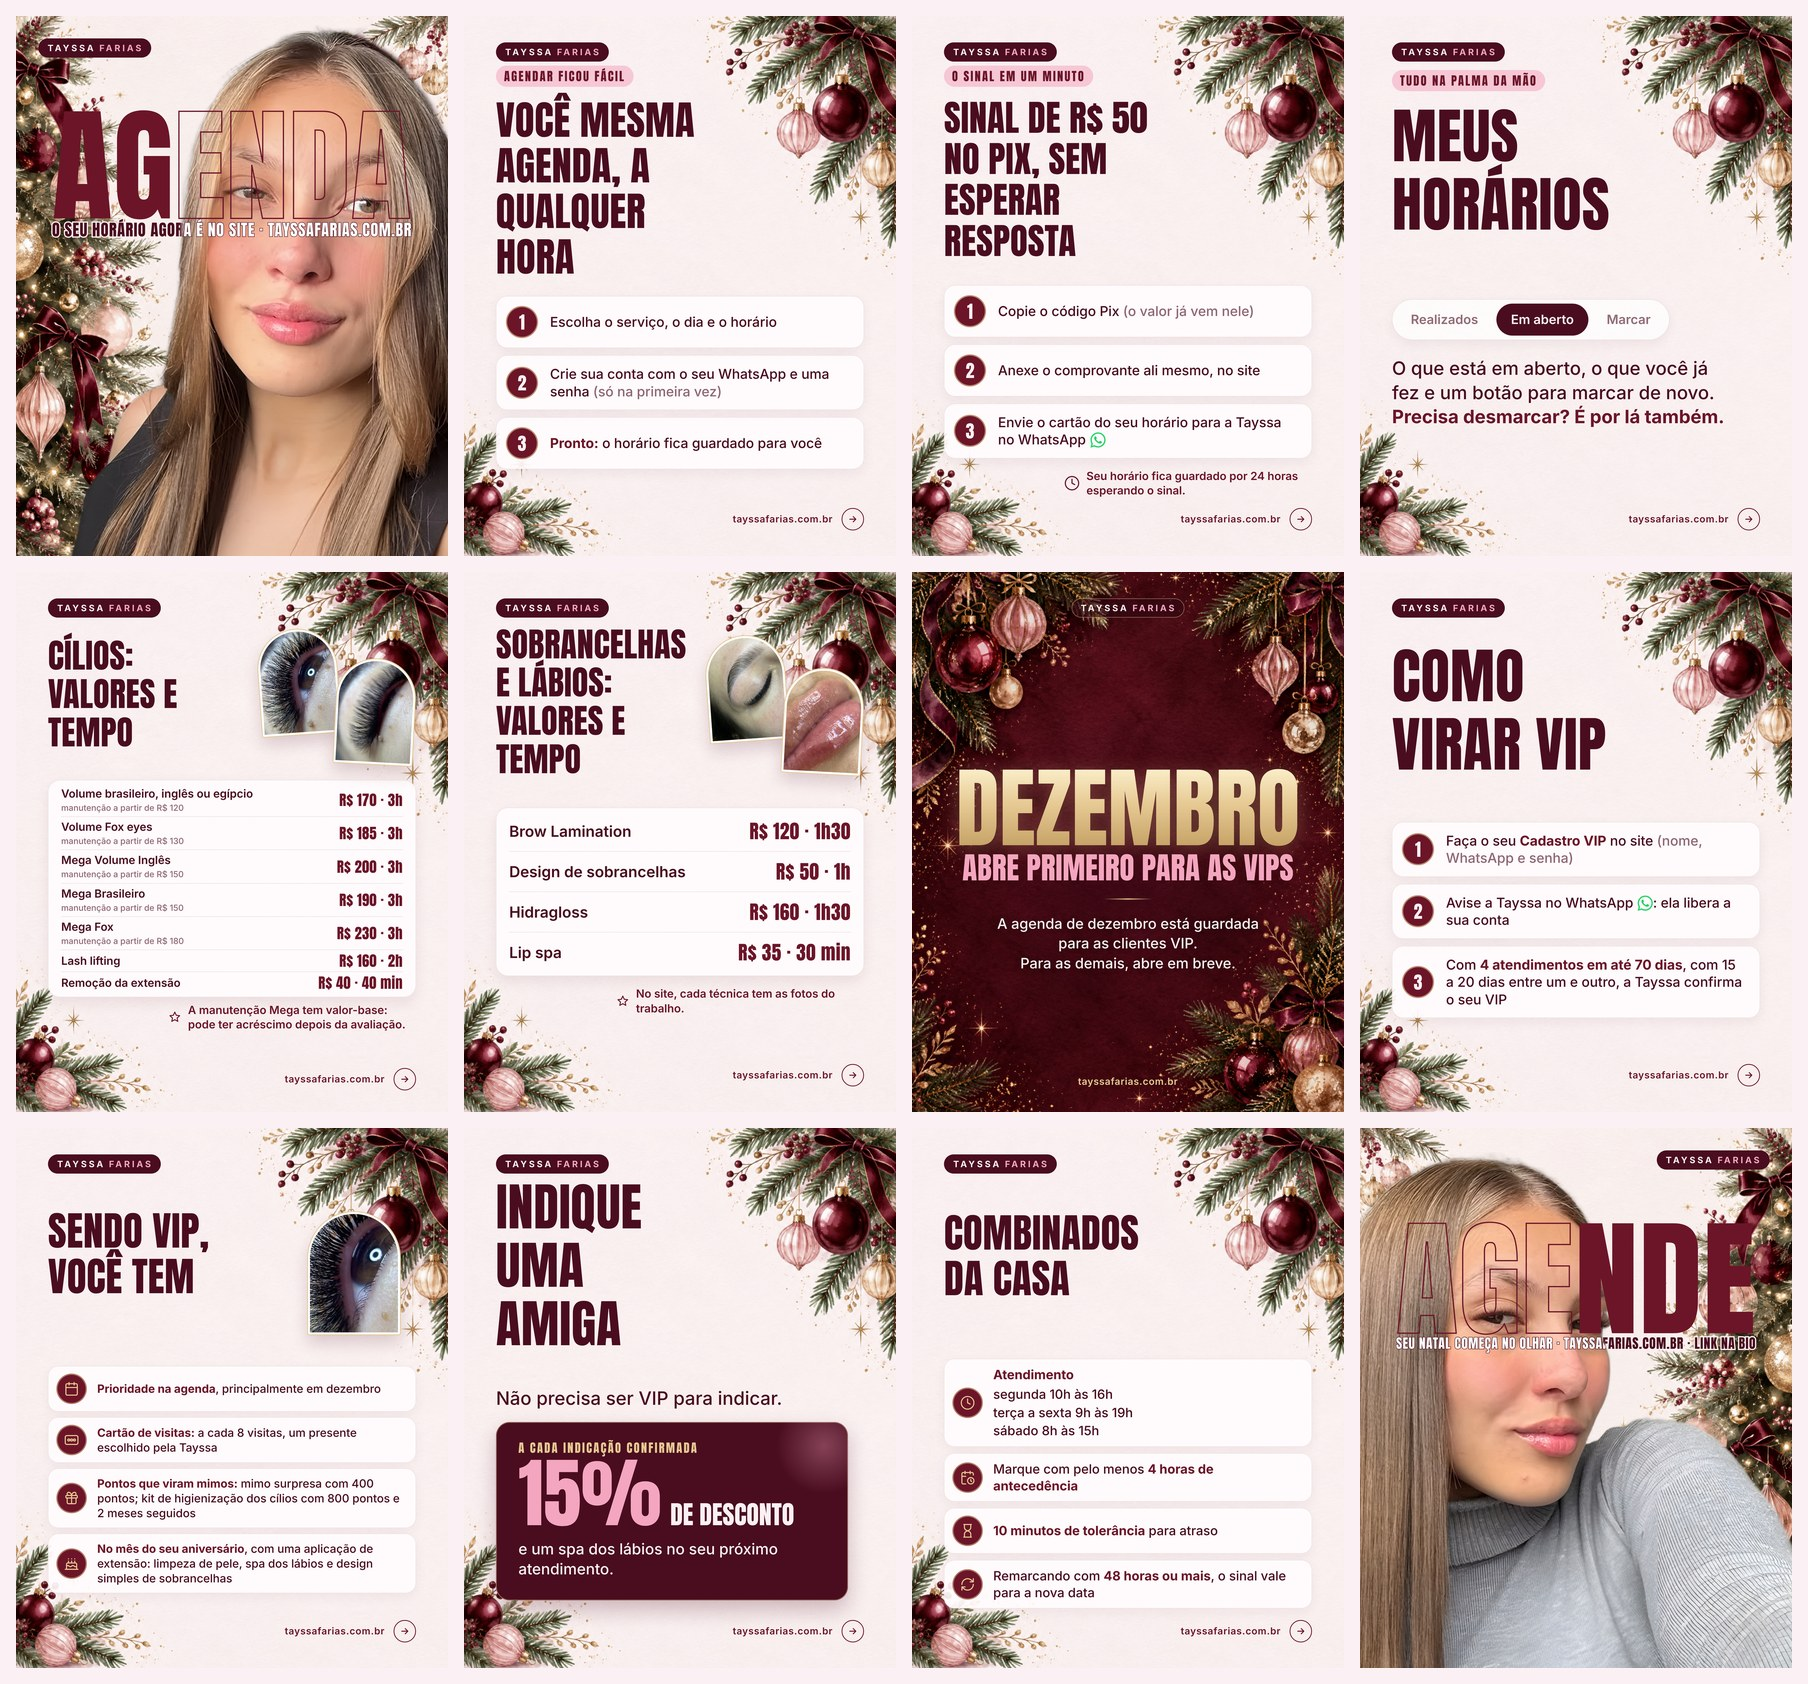
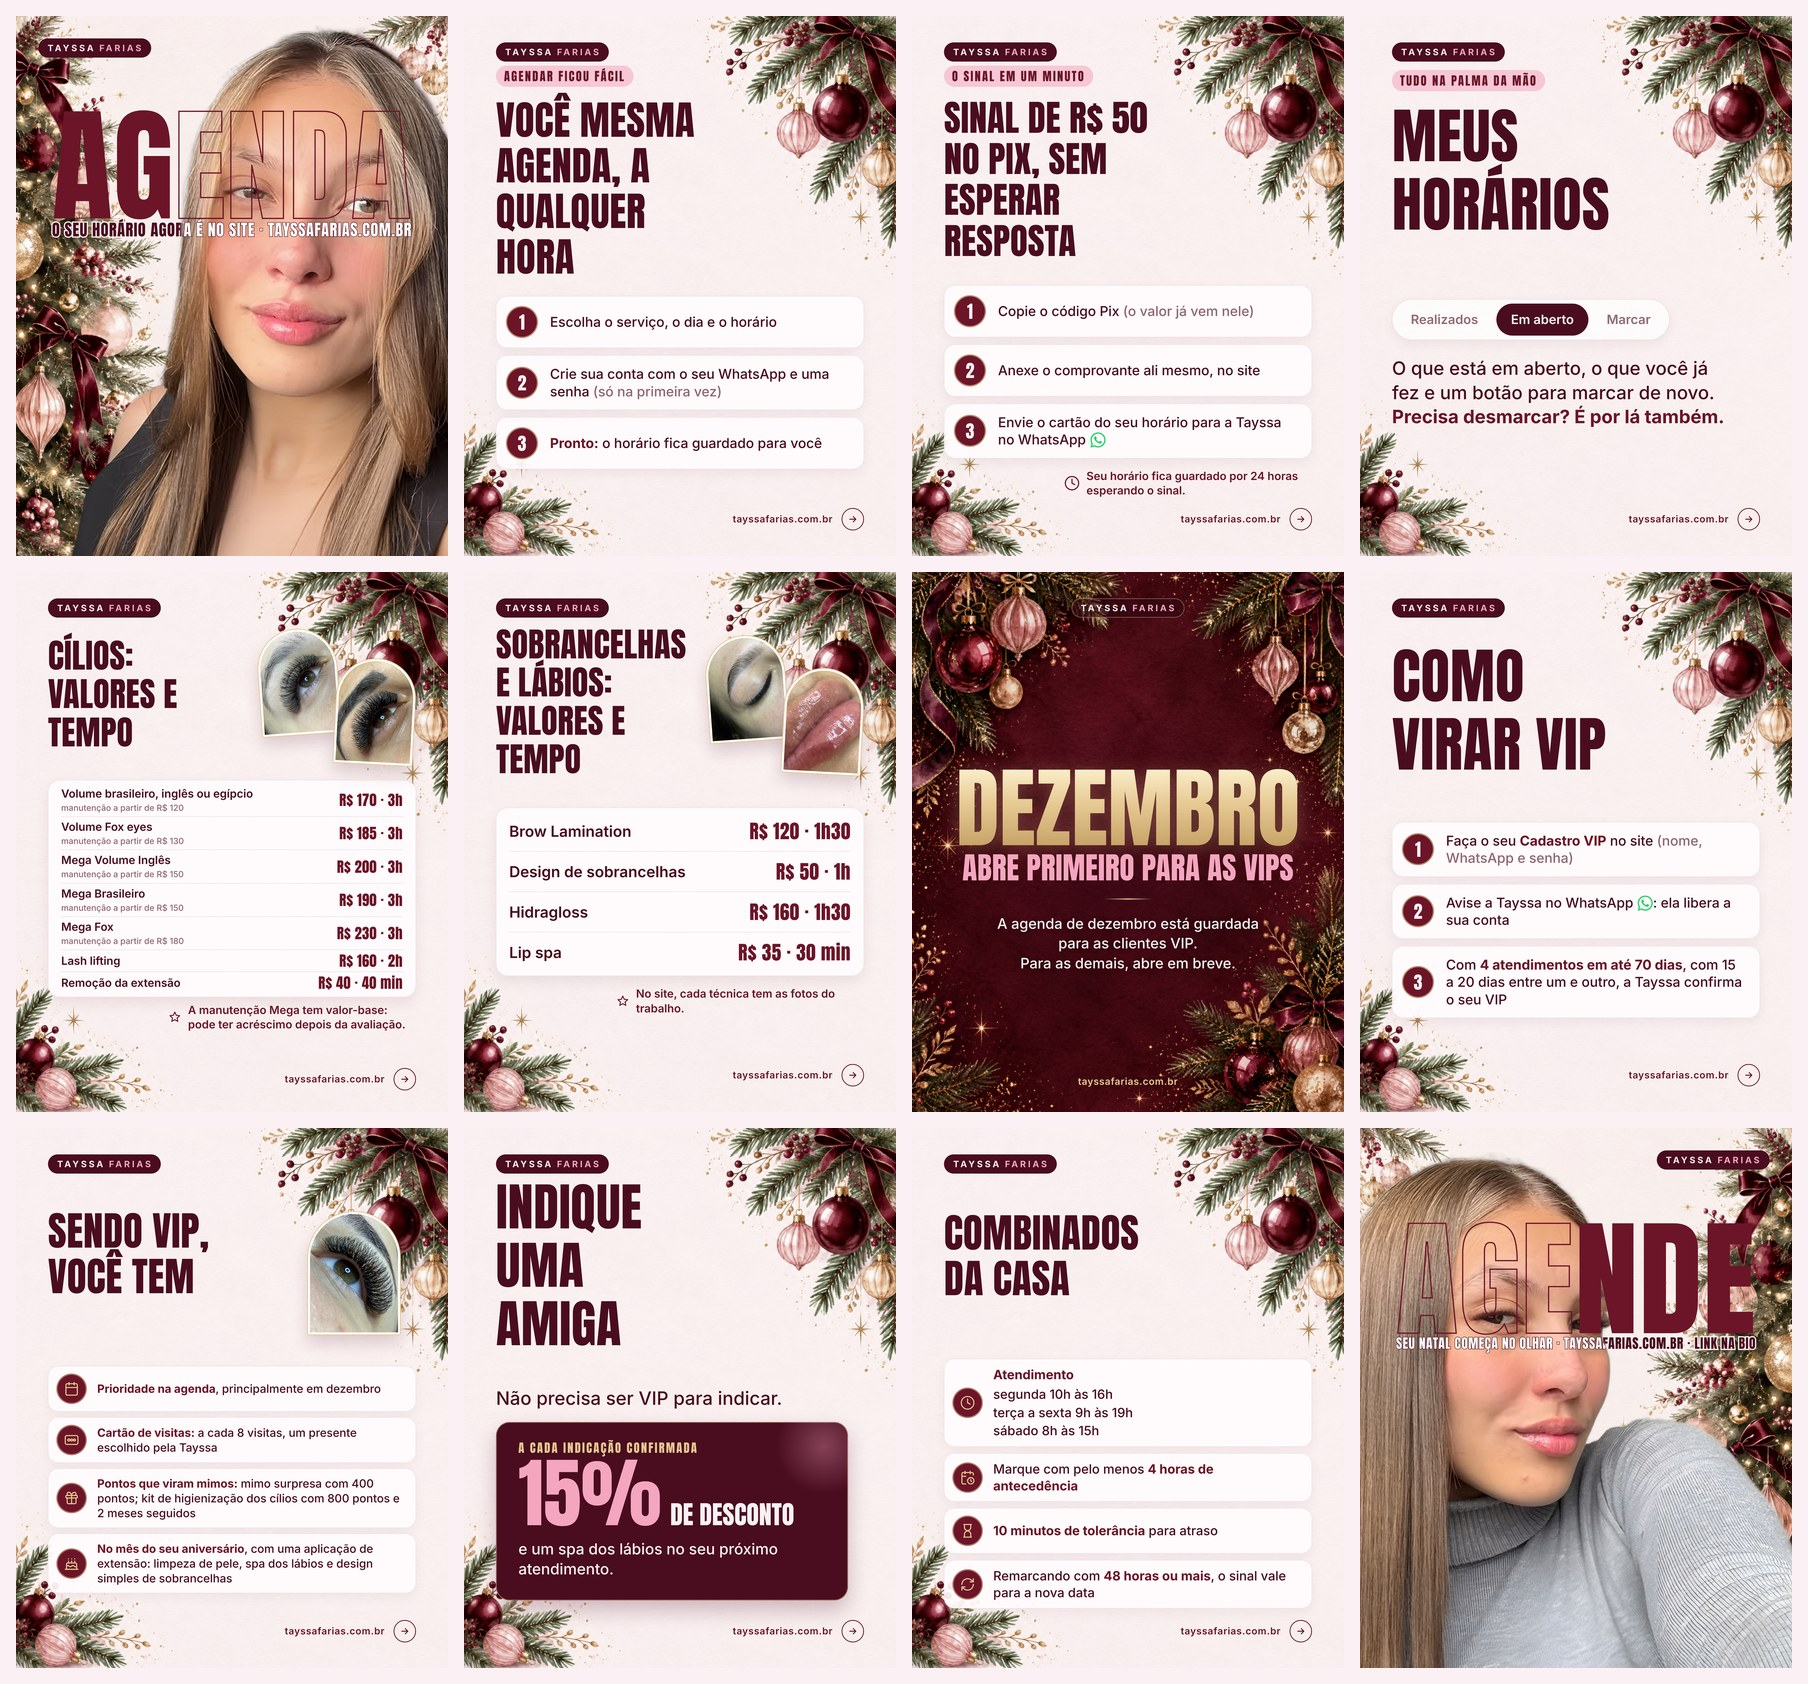
Tayssa: fotos de cílios mais claras nas lâminas 5 e 9 do carrossel do site
Closes do olho com a extensão inteira (Volume e Mega Inglês) no lugar dos
macros com reflexo.

Claude-Session: https://claude.ai/code/session_01C7Fqj9QNbeqjAG4x5LcgP7

Changed region(s): [[0.1239, 0.3705, 0.2478, 0.4632], [0.1549, 0.7102, 0.2168, 0.8029]]

diff --git a/docs/tayssa/carrossel-natal/gerador/style.css b/docs/tayssa/carrossel-natal/gerador/style.css
@@ -248,3 +248,4 @@ main { justify-content: flex-start; padding: 0; }
 .interna:has(.precos--cilios) .arco--p2 { top: 104px; }
 .precos--cilios li { padding: 9px 0 !important; }
 .interna:has(.precos--cilios) .nota--curta { margin-top: 14px; }
+.arco--par img, .arco--vip img { object-position: 50% 50%; }

diff --git a/docs/tayssa/carrossel-natal/README.md b/docs/tayssa/carrossel-natal/README.md
@@ -12,7 +12,7 @@ Post do @1.tayssa anunciando o tayssafarias.com.br. 12 lâminas em 1080 x 1350 (
 ## Como foi feito
 
 - **Fundos:** IA do Canva (a chave da kie.ai do ambiente deu 401 e não havia outra). Prompt-base do roteiro em todas, mudando só o pedido de cada lâmina. Três fundos: capa (árvore de um lado, espaço para a foto), internas (detalhe no alto à direita e embaixo à esquerda) e dezembro (vinho com dourado; o primeiro saiu claro e foi refeito trocando o papel claro por vinho). O fechamento usa o fundo da capa espelhado. Arte rascunho com os fundos no Canva: "Fundo de Natal em aquarela" (design `DAHainzdQbk`).
-- **Fotos:** só as reais que a Tayssa mandou. Capa: a selfie do sorriso com a flor ao fundo. Fechamento: a de blusa cinza. A primeira selfie (a do `portrait.jpg`) saiu da capa a pedido do Lucas. Fundo recortado com rembg (`birefnet-portrait`), no lugar do recraft/remove-background da kie. As fotos vieram em 720 px; para o close ficar nítido foram ampliadas 4x com Real-ESRGAN (`RealESRGAN_x4plus`, só nitidez, não redesenha o rosto) e misturadas com 25% da foto original para manter a textura da pele. Lâmina 5: dois closes de cílios (`work-01.jpg` e `work-02.jpg`); lâmina 6: um close de Brow Lamination e um de Hidragloss (fotos do formulário da Tayssa, `vip.photos`), só sobrancelha e boca; lâmina 9: close de cílios (`work-03.jpg`). Nunca rosto de cliente.
+- **Fotos:** só as reais que a Tayssa mandou. Capa: a selfie do sorriso com a flor ao fundo. Fechamento: a de blusa cinza. A primeira selfie (a do `portrait.jpg`) saiu da capa a pedido do Lucas. Fundo recortado com rembg (`birefnet-portrait`), no lugar do recraft/remove-background da kie. As fotos vieram em 720 px; para o close ficar nítido foram ampliadas 4x com Real-ESRGAN (`RealESRGAN_x4plus`, só nitidez, não redesenha o rosto) e misturadas com 25% da foto original para manter a textura da pele. Lâmina 5: dois closes de olho com extensão (Volume Inglês e Mega Inglês, fotos do formulário da Tayssa em `vip.photos`); lâmina 6: um close de Brow Lamination e um de Hidragloss; lâmina 9: close de Volume Inglês. Só olho, sobrancelha e boca. Nunca rosto de cliente.
 - **Capa e fechamento no desenho da referência:** rosto em close, título com parte cheia e parte só em contorno fino passando pelo rosto ("AG" cheio e "ENDA" vazado na capa; "AGE" vazado e "NDE" cheio no fechamento), linha pequena embaixo que fica vinho sobre o fundo e branca com contorno sobre ela (máscara `*-mask.png`, tirada do recorte da foto, com borda firme).
 - **Texto:** aplicado em código por cima (Anton nos títulos, Inter no texto), copiado do roteiro. Valores, sinal de R$ 50, 4 h de antecedência, 10 min de tolerância, 48 h para remarcar e a regra do VIP (4 em 70 dias, 15 a 20 entre um e outro) conferidos com o banco e com `lib/tayssa/config.ts` em 10/11/2026.
 - Ícone do WhatsApp: a logo oficial (o mesmo desenho de `components/tayssa/ui/whatsapp.tsx`).
